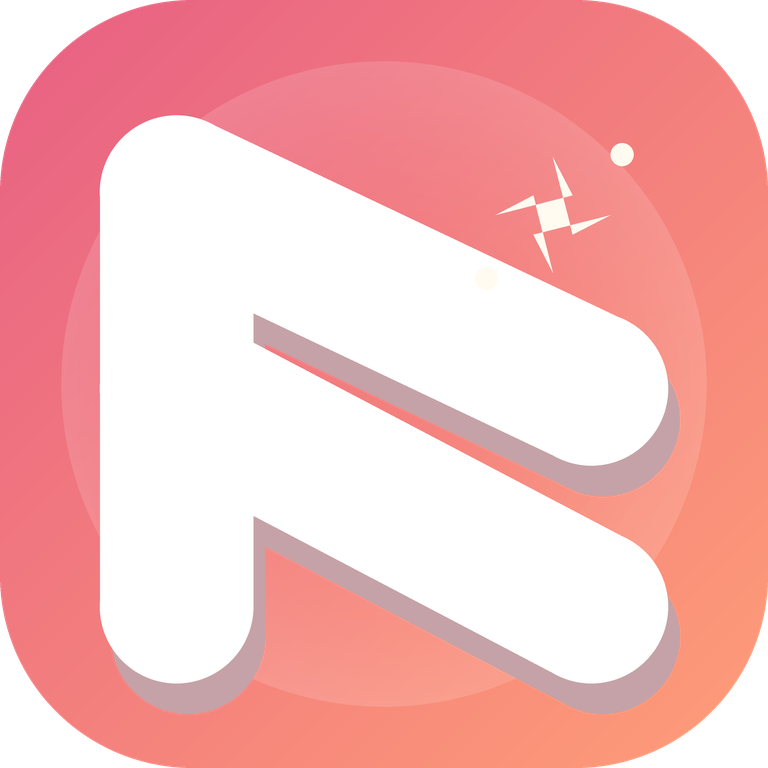
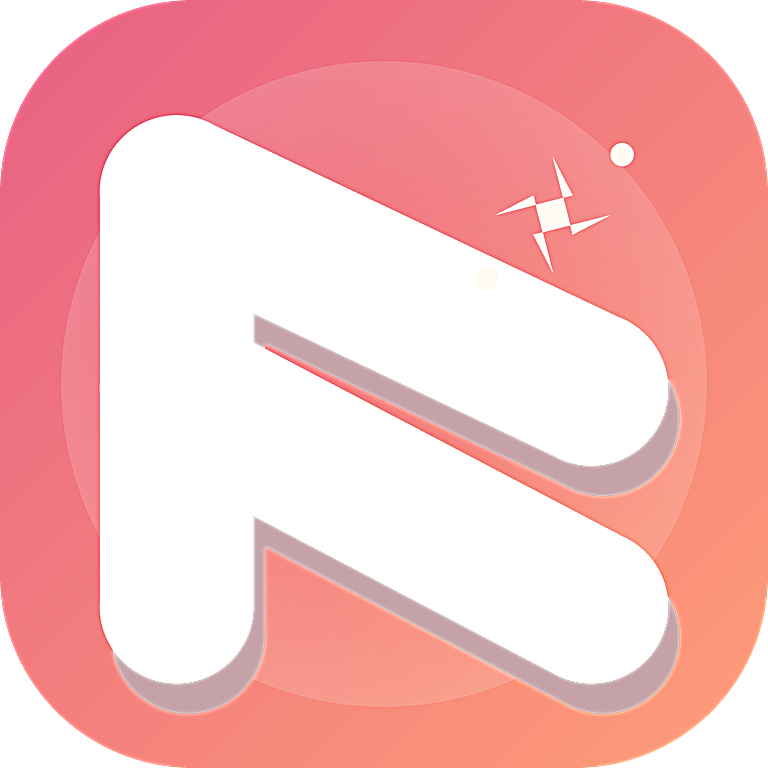
Плавные состояния привычек, звука и стеклянная навигация
- Пин привычки, заметки и статус вредной привычки меняются без сдвига текста.
- Выбор дней и звуков будильника получил мягкие переходы; удаление своего
  звука сохраняет слот «Свой».
- Исправлена отдача плиток под точкой нажатия и плавность тематических тултипов.
- Обновлены резкие launcher/round-иконки и логотип сплеша.

🤖 Generated with Codebuff

diff --git a/lib/screens/habits_screen.dart b/lib/screens/habits_screen.dart
@@ -798,37 +798,46 @@ class _HabitsScreenState extends State<HabitsScreen>
               // Bigger hit-target (padding 6+8, icon 26) matches what works
               // in tasks/alarms screen — same Dismissible wrapper,
               // immediate drag works there, so we keep that here.
-              AnimatedSwitcher(
-                duration: const Duration(milliseconds: 250),
-                transitionBuilder: (child, animation) =>
-                    ScaleTransition(scale: animation, child: child),
-                child: habit.pinned
-                    ? const Padding(
-                        key: ValueKey('pin'),
-                        padding: EdgeInsets.symmetric(
-                          horizontal: 6,
-                          vertical: 8,
-                        ),
-                        child: Icon(
-                          Icons.push_pin,
-                          size: 26,
-                          color: Colors.grey,
-                        ),
-                      )
-                    : _HabitDragHandle(
-                        index: dragIndex,
-                        child: const Padding(
+              // Фиксированная ширина слота: при смене пин↔драг-хэндл текст
+              // не сдвигается, а сам значок меняется кросс-фейдом + scale.
+              SizedBox(
+                width: 38,
+                child: AnimatedSwitcher(
+                  duration: const Duration(milliseconds: 280),
+                  switchInCurve: Curves.easeOutCubic,
+                  switchOutCurve: Curves.easeInCubic,
+                  transitionBuilder: (child, animation) => FadeTransition(
+                    opacity: animation,
+                    child: ScaleTransition(scale: animation, child: child),
+                  ),
+                  child: habit.pinned
+                      ? const Padding(
+                          key: ValueKey('pin'),
                           padding: EdgeInsets.symmetric(
-                            horizontal: 4,
+                            horizontal: 6,
                             vertical: 8,
                           ),
                           child: Icon(
-                            Icons.drag_indicator,
+                            Icons.push_pin,
                             size: 26,
                             color: Colors.grey,
                           ),
+                        )
+                      : _HabitDragHandle(
+                          index: dragIndex,
+                          child: const Padding(
+                            padding: EdgeInsets.symmetric(
+                              horizontal: 6,
+                              vertical: 8,
+                            ),
+                            child: Icon(
+                              Icons.drag_indicator,
+                              size: 26,
+                              color: Colors.grey,
+                            ),
+                          ),
                         ),
-                      ),
+                ),
               ),
               // Чекбокс (сверху) + тип привычки (снизу).
               // Колонка уже (40) и значок крупнее (23) — иконка ближе
@@ -1041,54 +1050,19 @@ class _HabitsScreenState extends State<HabitsScreen>
                                   padding: const EdgeInsets.symmetric(
                                     vertical: 8,
                                   ),
-                                  child: Container(
-                                    padding: const EdgeInsets.symmetric(
-                                      horizontal: 12,
-                                      vertical: 6,
-                                    ),
-                                    decoration: BoxDecoration(
-                                      borderRadius: BorderRadius.circular(20),
-                                      gradient: LinearGradient(
-                                        begin: Alignment.topLeft,
-                                        end: Alignment.bottomRight,
-                                        colors: [
-                                          Colors.red.shade400,
-                                          Colors.deepOrange.shade400,
-                                        ],
+                                  child: Align(
+                                    alignment: Alignment.centerLeft,
+                                    child: Text(
+                                      Translations.t(
+                                        'todayErased',
+                                        context,
+                                        'TODAY CLEARED',
+                                      ).toUpperCase(),
+                                      style: theme.textTheme.bodyMedium?.copyWith(
+                                        color: Colors.red.shade600,
+                                        fontWeight: FontWeight.w800,
+                                        letterSpacing: 0.4,
                                       ),
-                                      boxShadow: [
-                                        BoxShadow(
-                                          color: Colors.red.withValues(
-                                            alpha: 0.3,
-                                          ),
-                                          blurRadius: 8,
-                                          offset: const Offset(0, 4),
-                                        ),
-                                      ],
-                                    ),
-                                    child: Row(
-                                      mainAxisSize: MainAxisSize.min,
-                                      children: [
-                                        const Icon(
-                                          Icons.shield_outlined,
-                                          color: Colors.white,
-                                          size: 16,
-                                        ),
-                                        const SizedBox(width: 6),
-                                        Text(
-                                          Translations.t(
-                                            'todayErased',
-                                            context,
-                                            'Today cleared',
-                                          ),
-                                          style: theme.textTheme.bodyMedium
-                                              ?.copyWith(
-                                                color: Colors.white,
-                                                fontWeight: FontWeight.w700,
-                                                letterSpacing: 0.3,
-                                              ),
-                                        ),
-                                      ],
                                     ),
                                   ),
                                 )
@@ -1097,8 +1071,9 @@ class _HabitsScreenState extends State<HabitsScreen>
                                 ),
                         ),
                         AnimatedSize(
-                          duration: const Duration(milliseconds: 300),
-                          curve: Curves.easeInOut,
+                          duration: const Duration(milliseconds: 380),
+                          curve: Curves.easeOutCubic,
+                          alignment: Alignment.topCenter,
                           child:
                               (_expandedNotes[habit.id] ?? false) &&
                                   (habit.notes.isNotEmpty ||
@@ -1153,10 +1128,9 @@ class _HabitsScreenState extends State<HabitsScreen>
                                           if (habit.notes.isNotEmpty)
                                             const SizedBox(height: 8),
                                         ],
-                                        if (habit.notes.isNotEmpty)
-                                          Text(
-                                            habit.notes,
-                                            style: theme.textTheme.bodyMedium
+                                        if (habit.notes.isNotEmpty)                            Text(
+                              habit.notes,
+                              style: theme.textTheme.bodyMedium
                                                 ?.copyWith(
                                                   color: theme
                                                       .colorScheme
@@ -1294,11 +1268,14 @@ class _HabitsScreenState extends State<HabitsScreen>
               itemBuilder: (context, i) {
                 final p = plaques[i];
                 return SmoothHover(
-                  hoverScale: 1.03,
+                  hoverScale: 1.025,
+                  duration: const Duration(milliseconds: 280),
+                  pressAlignment: Alignment.center,
                   child: Material(
                     color: Colors.transparent,
                     child: InkWell(
                       borderRadius: BorderRadius.circular(18),
+                      splashFactory: InkRipple.splashFactory,
                       onTap: () => _showPerfFullScreen(
                         Translations.t(p.bodyKey, context),
                         Translations.t(p.titleKey, context),

diff --git a/lib/screens/add_alarm_screen.dart b/lib/screens/add_alarm_screen.dart
@@ -165,9 +165,12 @@ class _AddAlarmScreenState extends State<AddAlarmScreen> {
     if (name == 'Custom') {
       setState(() {
         _customSoundPath = null;
-        _soundName = _availableSounds.isNotEmpty
-            ? _availableSounds.first
-            : 'Default';
+        // Оставляем карточку «Свой» выбранной даже после удаления файла:
+        // следующий файл можно добавить в тот же слот без скачка на Default.
+        _soundName = 'Custom';
+        if (!_availableSounds.contains('Custom')) {
+          _availableSounds.add('Custom');
+        }
       });
       return;
     }
@@ -431,11 +434,35 @@ class _AddAlarmScreenState extends State<AddAlarmScreen> {
                           children: List.generate(7, (i) {
                             final day = i + 1;
                             final selected = _repeatDays.contains(day);
-                            return FilterChip(
-                              selected: selected,
-                              label: Text(dayNames[i]),
-                              onSelected: (_) => _toggleDay(day),
-                              showCheckmark: false,
+                            return AnimatedContainer(
+                              duration: const Duration(milliseconds: 260),
+                              curve: Curves.easeOutCubic,
+                              decoration: BoxDecoration(
+                                borderRadius: BorderRadius.circular(20),
+                                boxShadow: selected
+                                    ? [
+                                        BoxShadow(
+                                          color: theme.colorScheme.primary
+                                              .withValues(alpha: 0.20),
+                                          blurRadius: 8,
+                                          spreadRadius: -2,
+                                        ),
+                                      ]
+                                    : const [],
+                              ),
+                              child: FilterChip(
+                                selected: selected,
+                                label: Text(dayNames[i]),
+                                onSelected: (_) => _toggleDay(day),
+                                showCheckmark: false,
+                                selectedColor: theme.colorScheme.primaryContainer,
+                                side: BorderSide(
+                                  color: selected
+                                      ? theme.colorScheme.primary
+                                      : theme.colorScheme.outlineVariant,
+                                  width: selected ? 1.2 : 1,
+                                ),
+                              ),
                             );
                           }),
                         ),
@@ -620,7 +647,15 @@ class _AddAlarmScreenState extends State<AddAlarmScreen> {
                         ),
                         const SizedBox(height: 8),
                         AnimatedSwitcher(
-                          duration: const Duration(milliseconds: 360),
+                          duration: const Duration(milliseconds: 520),
+                          layoutBuilder: (currentChild, previousChildren) =>
+                              Stack(
+                                alignment: Alignment.center,
+                                children: <Widget>[
+                                  ...previousChildren,
+                                  if (currentChild != null) currentChild,
+                                ],
+                              ),
                           switchInCurve: Curves.easeOutCubic,
                           switchOutCurve: Curves.easeInCubic,
                           transitionBuilder: (child, animation) =>
@@ -678,7 +713,7 @@ class _AddAlarmScreenState extends State<AddAlarmScreen> {
                                           ? theme.colorScheme.primary
                                           : theme.colorScheme.outlineVariant
                                                 .withValues(alpha: 0.6),
-                                      width: selected ? 2 : 1,
+                                      width: selected ? 1.5 : 1,
                                     ),
                                   ),
                                   child: Column(

diff --git a/lib/widgets/smooth_hover.dart b/lib/widgets/smooth_hover.dart
@@ -19,6 +19,7 @@ class SmoothHover extends StatefulWidget {
   final double hoverScale;
   final Duration duration;
   final Curve curve;
+  final Alignment pressAlignment;
 
   const SmoothHover({
     super.key,
@@ -29,6 +30,7 @@ class SmoothHover extends StatefulWidget {
     this.hoverScale = 1.012,
     this.duration = const Duration(milliseconds: 180),
     this.curve = Curves.easeOutCubic,
+    this.pressAlignment = Alignment.center,
   });
 
   /// Счётчик активных drag-proxy (см. buildDragProxy). Увеличивается при
@@ -80,7 +82,9 @@ class _SmoothHoverState extends State<SmoothHover>
 
   void _onEnter(PointerEnterEvent _) => _ctrl.forward();
   void _onExit(PointerExitEvent _) => _ctrl.reverse();
-  void _onDown(PointerDownEvent _) => _ctrl.forward();
+  void _onDown(PointerDownEvent _) {
+    if (!_ctrl.isAnimating && _ctrl.value == 0) _ctrl.forward();
+  }
   void _onUp(PointerUpEvent _) => _ctrl.reverse();
   void _onCancel(PointerCancelEvent _) => _ctrl.reverse();
 
@@ -98,7 +102,11 @@ class _SmoothHoverState extends State<SmoothHover>
           animation: _ctrl,
           builder: (context, child) {
             final s = 1.0 + (widget.hoverScale - 1.0) * _scale.value;
-            return Transform.scale(scale: s, child: child);
+            return Transform.scale(
+              scale: s,
+              alignment: widget.pressAlignment,
+              child: child,
+            );
           },
           child: widget.child,
         ),

diff --git a/lib/screens/home_screen.dart b/lib/screens/home_screen.dart
@@ -709,8 +709,8 @@ class _SectionRailState extends State<_SectionRail> {
                             type: MaterialType.transparency,
                             child: InkWell(
                               borderRadius: BorderRadius.circular(18.5),
-                              splashColor: cs.onPrimary.withValues(alpha: 0.16),
-                              highlightColor: cs.onPrimary.withValues(alpha: 0.08),
+                              splashColor: Colors.transparent,
+                              highlightColor: Colors.transparent,
                               onTapDown: (_) =>
                                   setState(() => _pressedIndex = i),
                               onTapCancel: () {

diff --git a/lib/widgets/smooth_tooltip.dart b/lib/widgets/smooth_tooltip.dart
@@ -44,7 +44,7 @@ class _SmoothTooltipState extends State<SmoothTooltip>
       reverseCurve: Curves.easeInCubic,
     );
     _fade = curved;
-    _scale = Tween<double>(begin: 0.94, end: 1.0).animate(curved);
+    _scale = Tween<double>(begin: 0.97, end: 1.0).animate(curved);
   }
 
   @override
@@ -113,8 +113,7 @@ class _SmoothTooltipState extends State<SmoothTooltip>
     if (!_controller.isAnimating && _controller.value == 0) {
       _dismount();
       return;
-    }
-    _controller.reverse().then((_) {
+    }    _controller.reverse().then((_) {
       if (mounted) _dismount();
     });
   }

diff --git a/tools/gen_logo.py b/tools/gen_logo.py
@@ -218,6 +218,8 @@ def main():
                     ("mipmap-xxxhdpi", 192)]:
         build_legacy(size).convert("RGB").save(
             f"android/app/src/main/res/{d}/ic_launcher.png")
+        build_legacy(size).convert("RGB").save(
+            f"android/app/src/main/res/{d}/ic_launcher_round.png")
     print("done")
 
 
